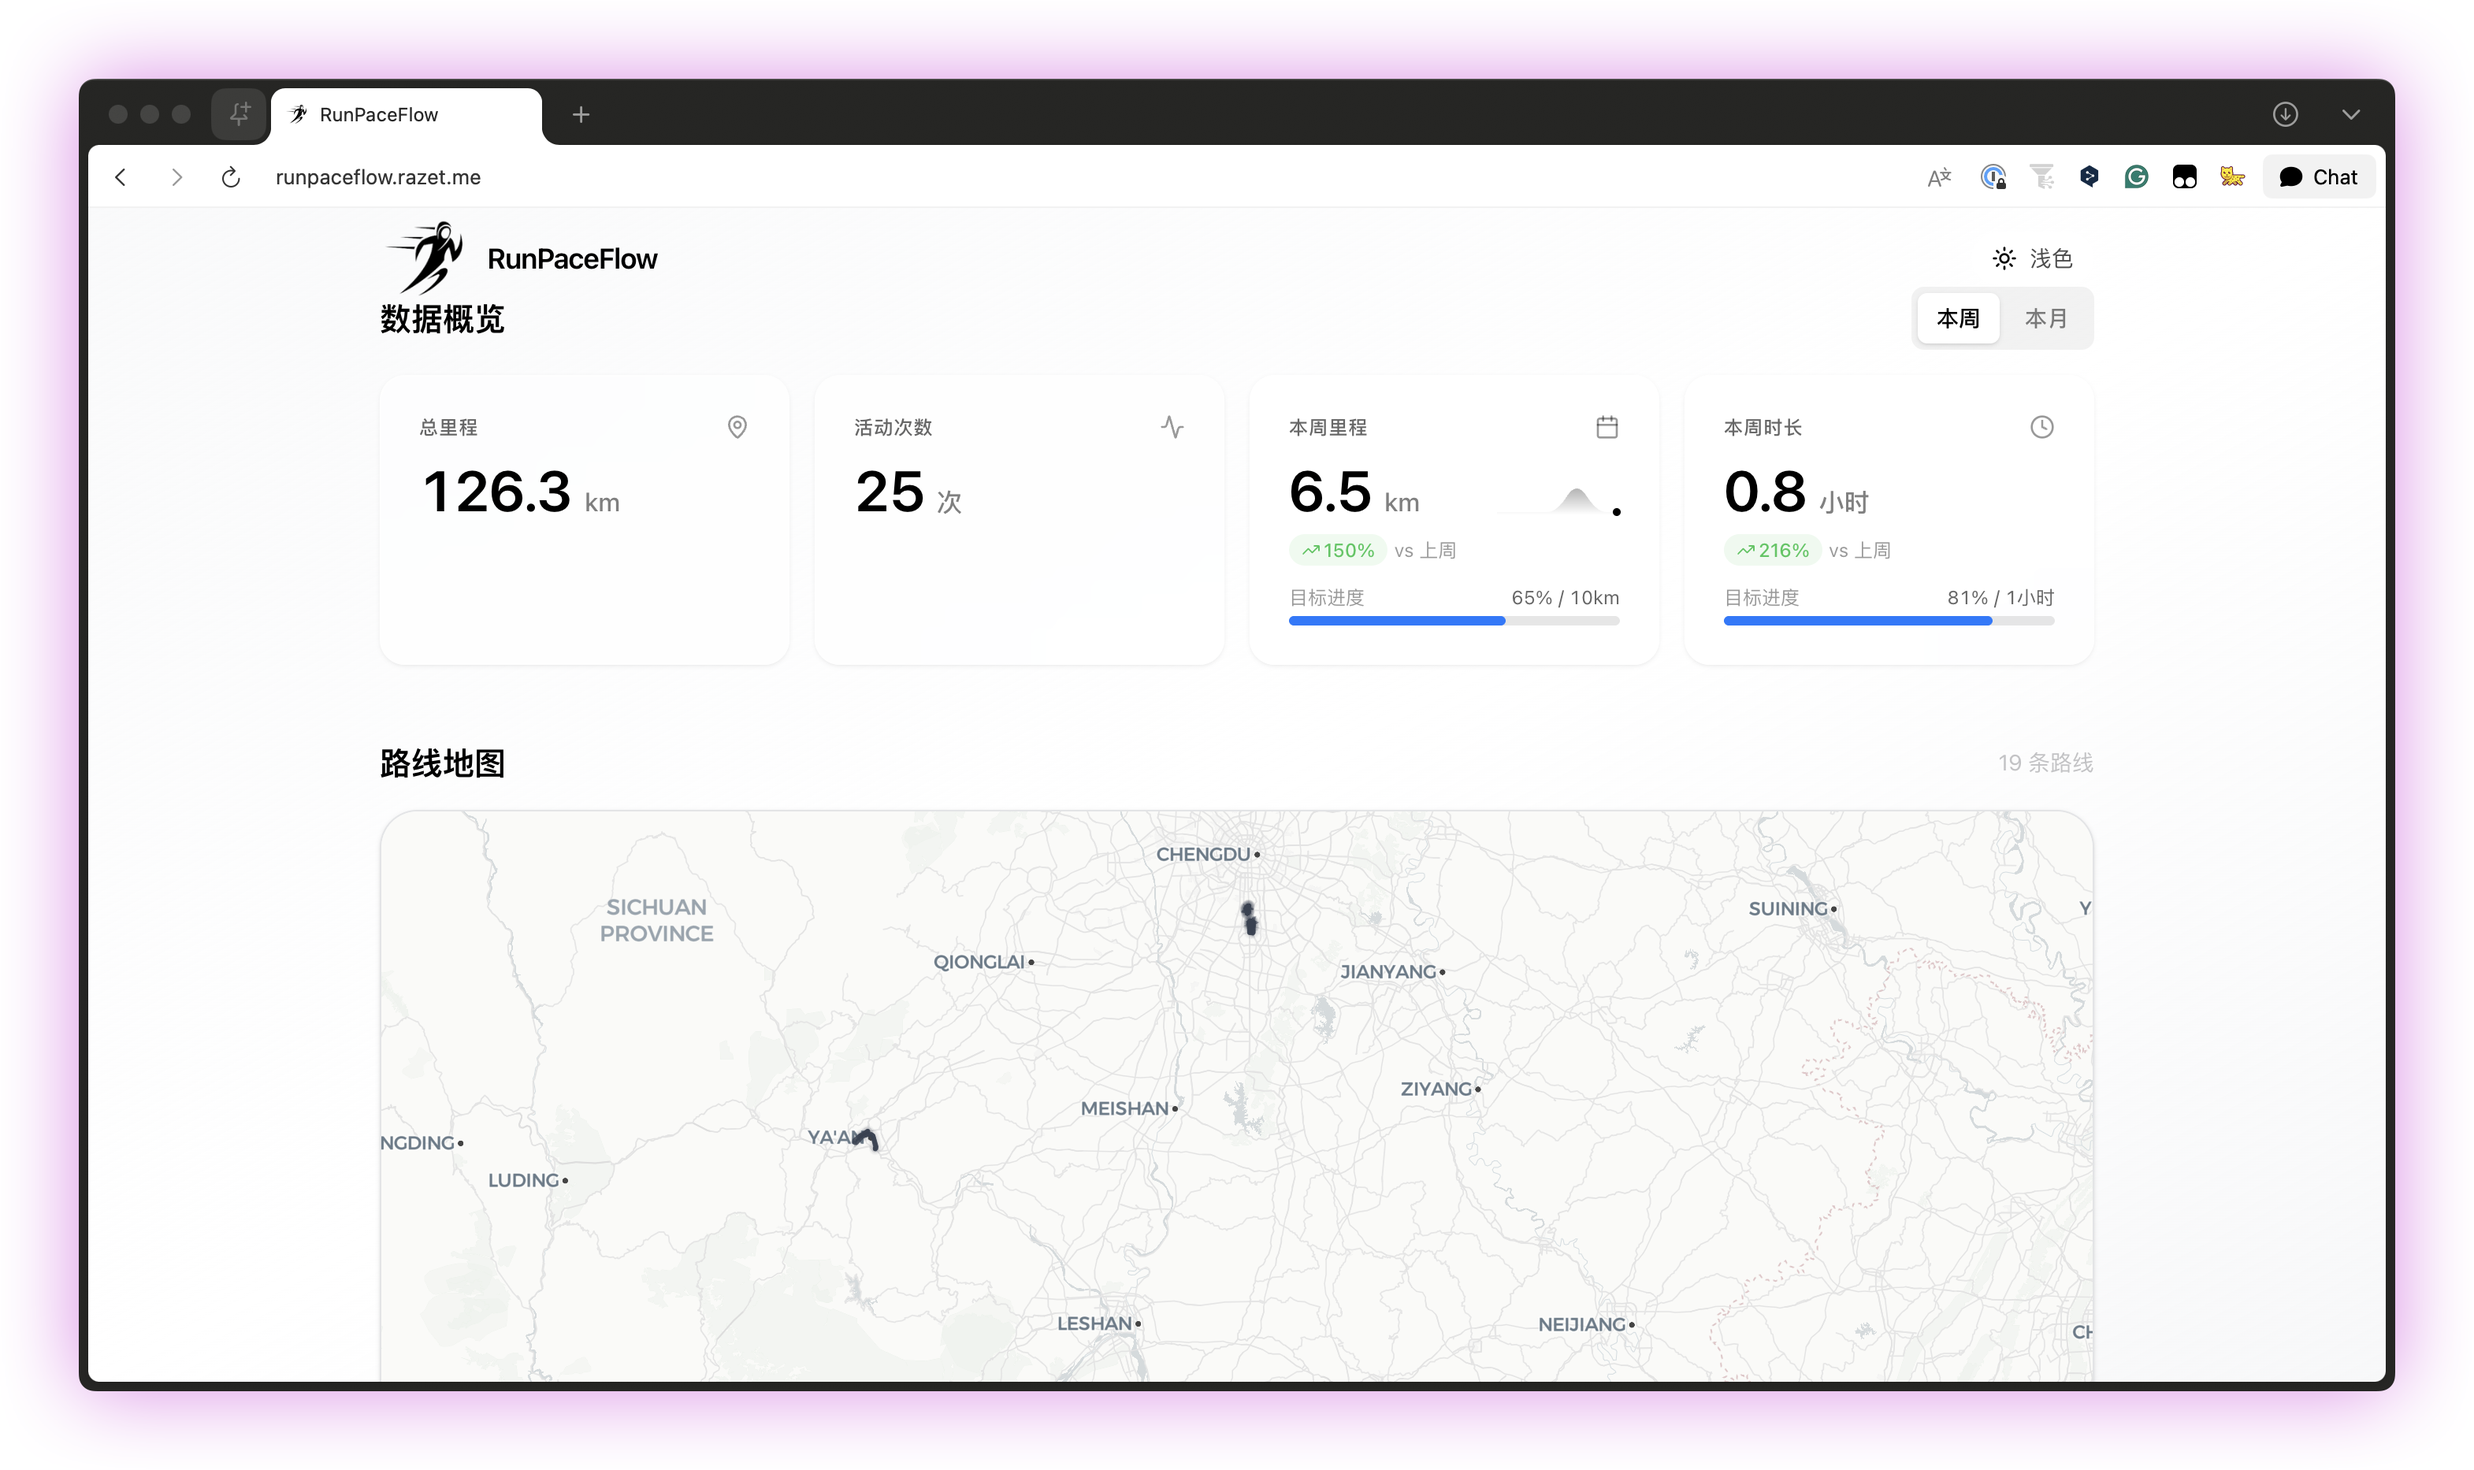
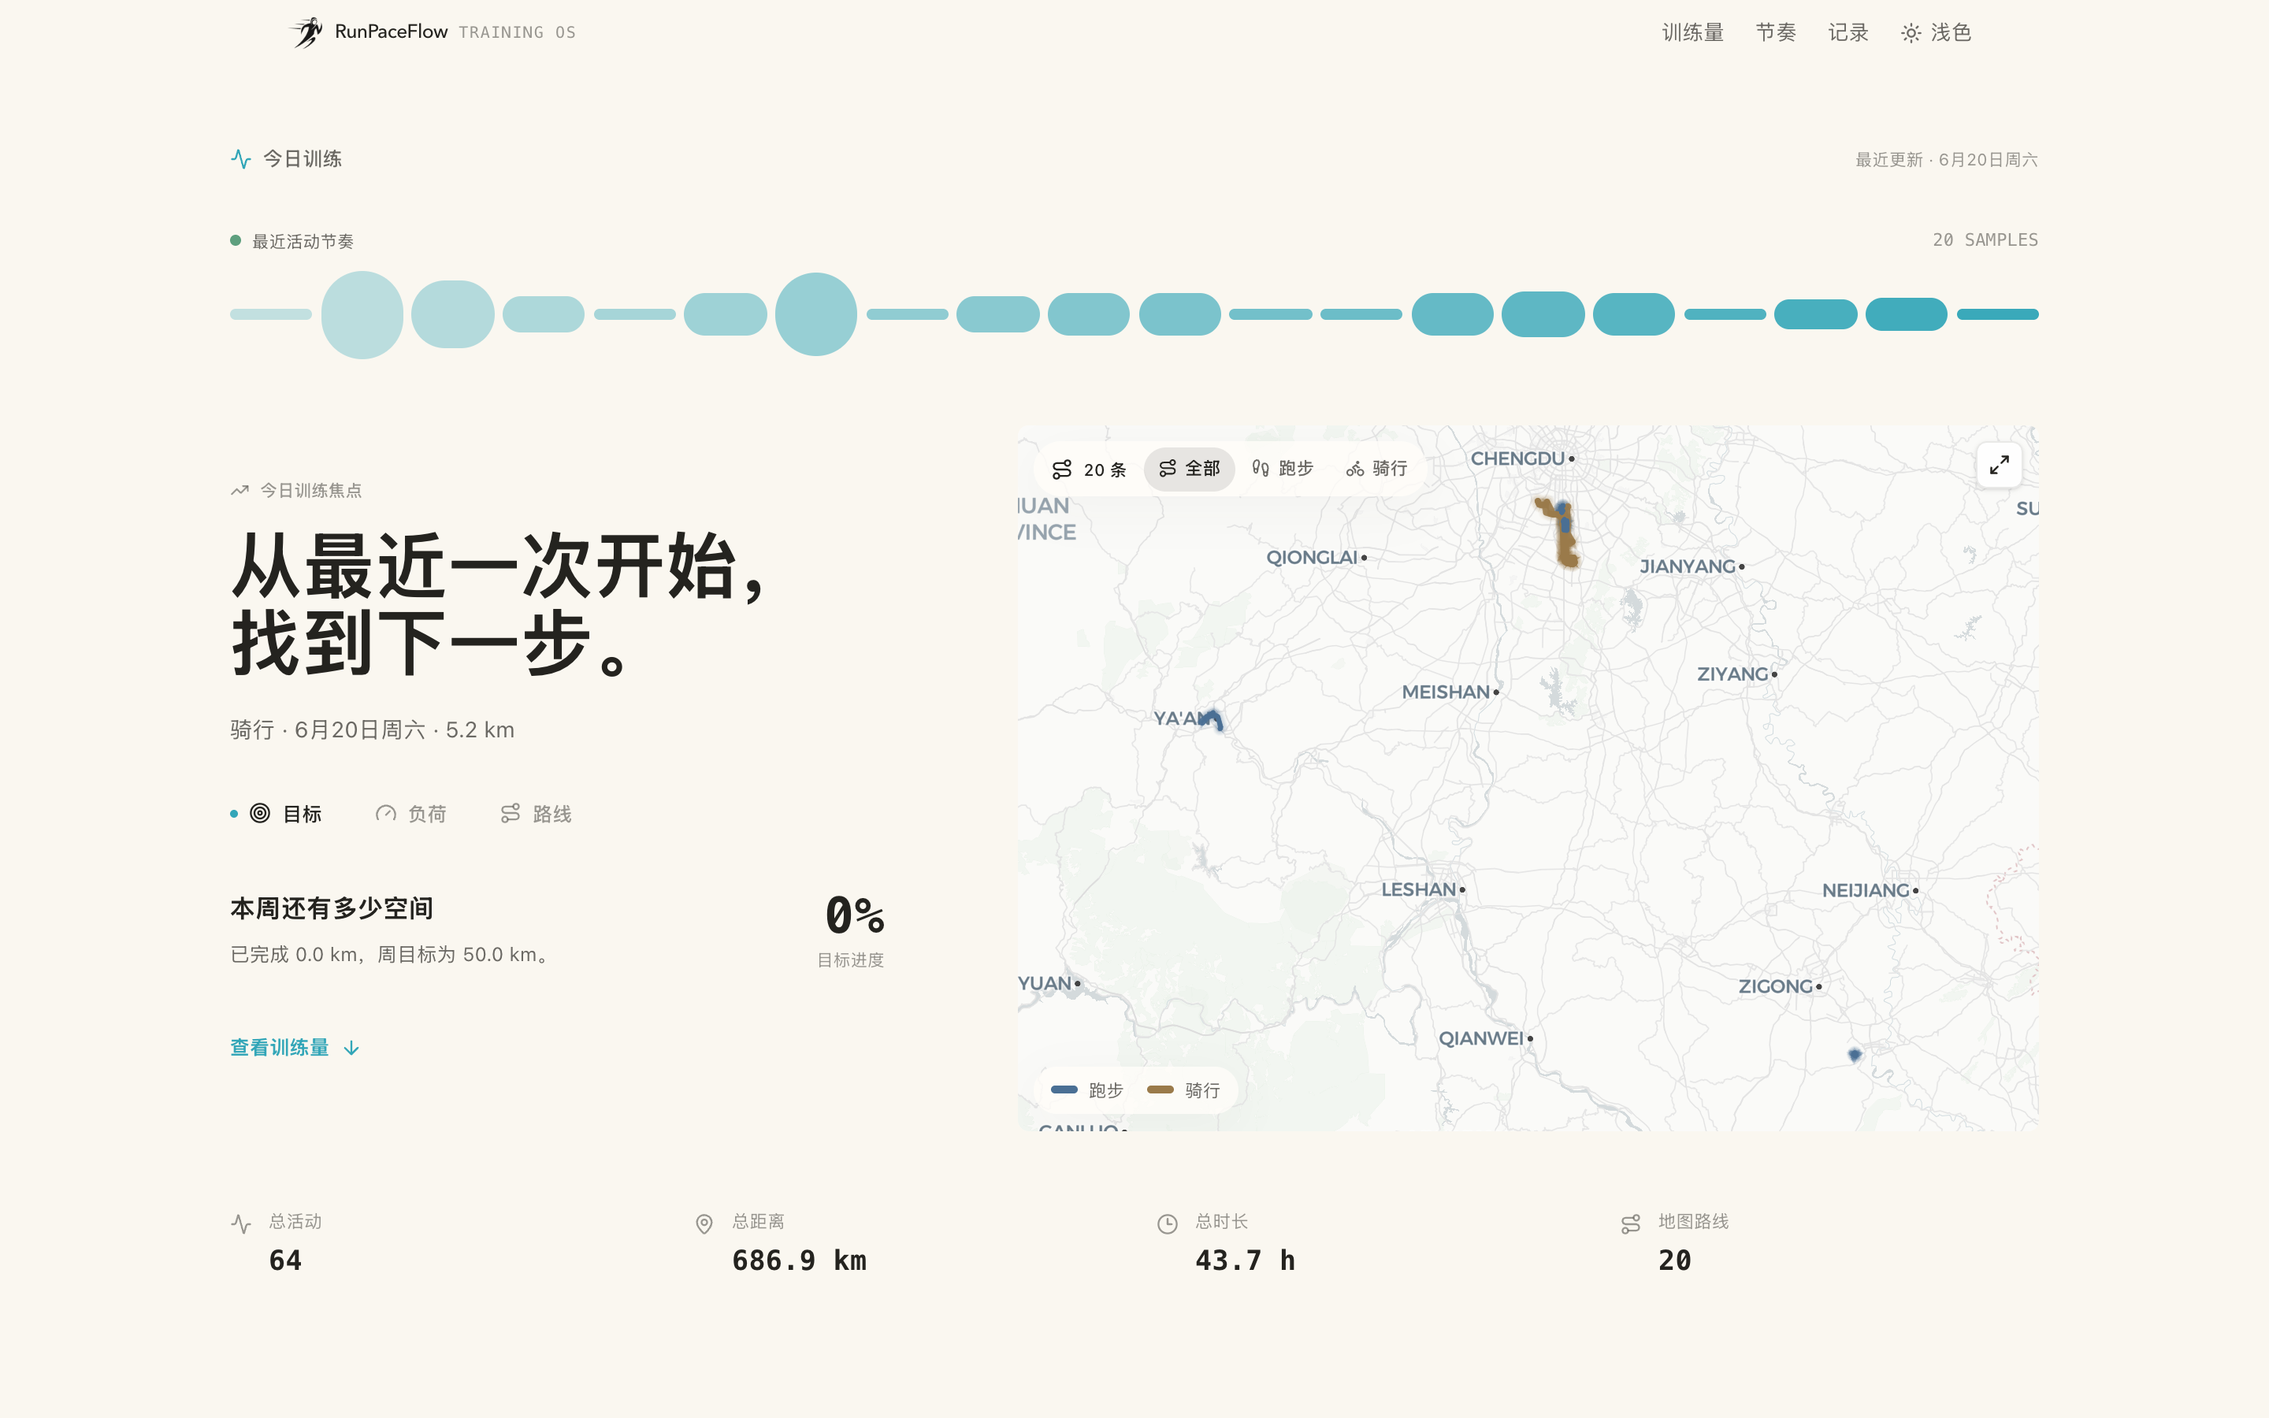
docs: refresh README screenshots from production and bump to 0.2.0
Capture viewport-only homepage and activity detail screenshots from
runpaceflow.razet.me after the Shiro UI deploy, and surface both previews
in the English/Chinese README.

diff --git a/README.md b/README.md
@@ -12,6 +12,10 @@ Personal running data visualization app for activities managed by RunPaceFlow Ad
   <img src="./public/screenshots/overview.png" alt="RunPaceFlow dashboard preview" width="960" />
 </p>
 
+<p align="center">
+  <img src="./public/screenshots/activity-detail.png" alt="RunPaceFlow activity detail preview" width="960" />
+</p>
+
 ## Features
 
 - Read-only dashboard for running and cycling activities already stored in the activity database

diff --git a/docs/README_CN.md b/docs/README_CN.md
@@ -4,6 +4,14 @@
 
 [English](../README.md)
 
+<p align="center">
+  <img src="../public/screenshots/overview.png" alt="RunPaceFlow 首页预览" width="960" />
+</p>
+
+<p align="center">
+  <img src="../public/screenshots/activity-detail.png" alt="RunPaceFlow 活动详情预览" width="960" />
+</p>
+
 ## 功能
 
 - 只读展示活动数据库中已有的跑步和骑行记录
